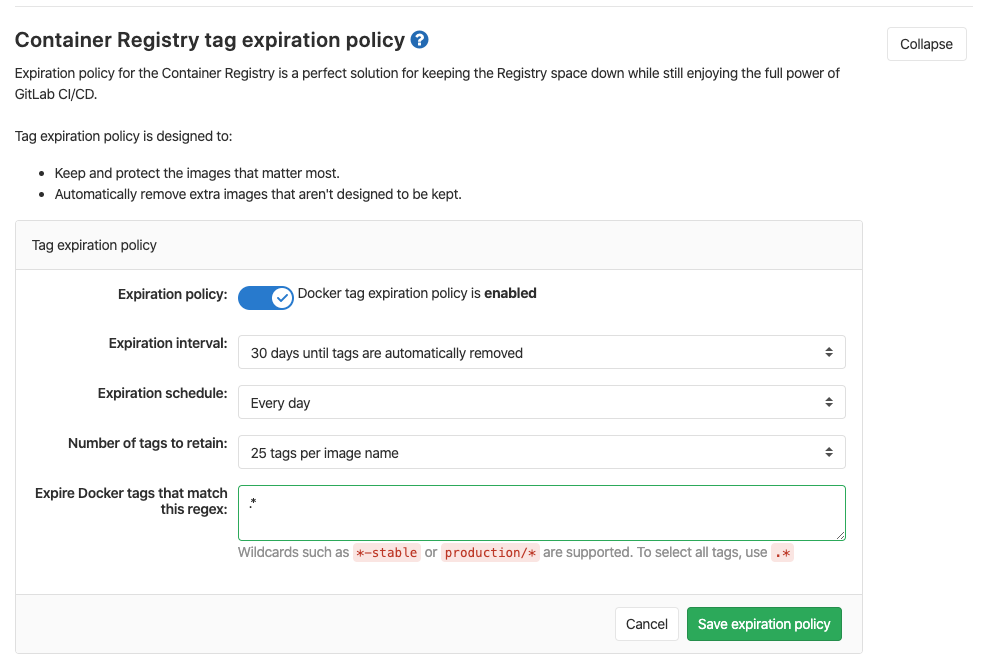
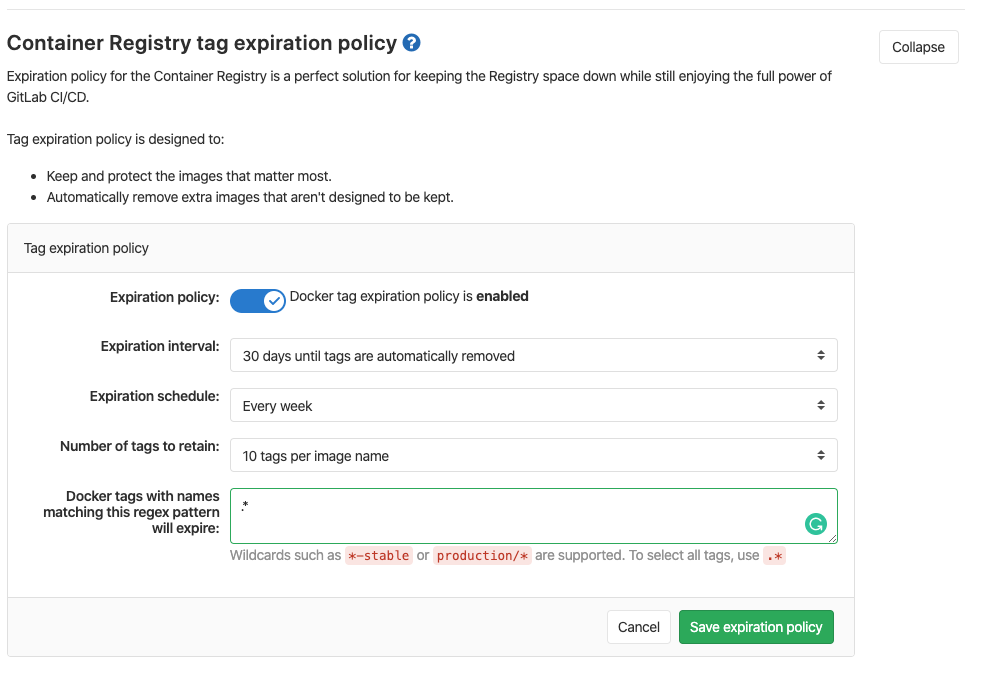
Update copy of settings form
- copy in component
- pot file
- snapshot updated

diff --git a/app/assets/javascripts/registry/settings/components/settings_form.vue b/app/assets/javascripts/registry/settings/components/settings_form.vue
@@ -174,7 +174,9 @@ export default {
           :label-cols="$options.labelsConfig.cols"
           :label-align="$options.labelsConfig.align"
           label-for="expiration-policy-name-matching"
-          :label="s__('ContainerRegistry|Expire Docker tags that match this regex:')"
+          :label="
+            s__('ContainerRegistry|Docker tags with names matching this regex pattern will expire:')
+          "
           :state="nameRegexState"
           :invalid-feedback="
             s__('ContainerRegistry|The value of this input should be less than 255 characters')

diff --git a/doc/user/packages/container_registry/index.md b/doc/user/packages/container_registry/index.md
@@ -177,7 +177,7 @@ The UI allows you to configure the following:
 - **Expiration interval:** how long tags are exempt from being deleted.
 - **Expiration schedule:** how often the cron job checking the tags should run.
 - **Expiration latest:** how many tags to _always_ keep for each image.
-- **Expire Docker tags with regex matching:** the regex used to determine what tags should be expired. To qualify all tags for expiration, use the default value of `.*`.
+- **Docker tags with names matching this regex pattern will expire:** the regex used to determine what tags should be expired. To qualify all tags for expiration, use the default value of `.*`.
 
 ## Troubleshooting the GitLab Container Registry
 
